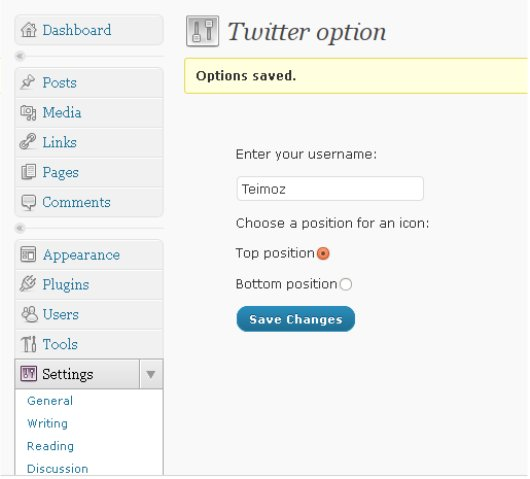
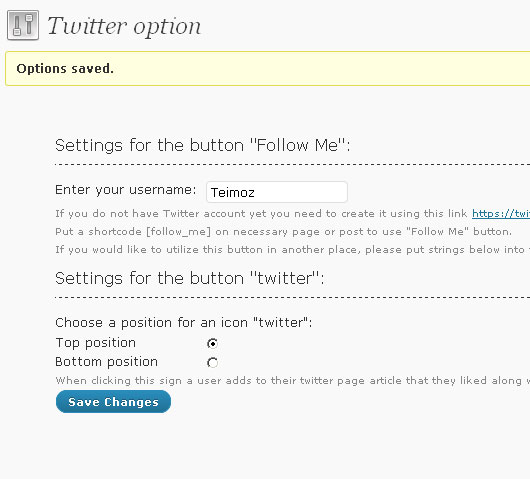
git-svn-id: https://plugins.svn.wordpress.org/twitter-plugin/trunk@388645 b8457f37-d9ea-0310-8a92-e5e31aec5664

diff --git a/twitter.php b/twitter.php
@@ -4,7 +4,7 @@ Plugin Name: Twitter Plugin
 Plugin URI:  http://bestwebsoft.com/plugin/
 Description: Plugin to add a link to the page author to twitter.
 Author: BestWebSoft
-Version: 1.02
+Version: 1.03
 Author URI: http://bestwebsoft.com/
 License: GPLv2 or later
 */
@@ -32,6 +32,7 @@ add_filter( "the_content", "twitter_twit" );
 
 add_action ( 'admin_menu', 'twitter_mt_add_pages' );
 
+add_shortcode( 'follow_me', 'follow_me' );
 
 if( !function_exists( twitter_settings ) ) {
 	function twitter_settings( $links, $file ) {
@@ -45,8 +46,6 @@ if( !function_exists( twitter_settings ) ) {
 //add settings links.End.
 
 //add meny
-
-
 if(!function_exists ( 'twitter_mt_add_pages' ) ) {
 	function twitter_mt_add_pages() {
 		add_options_page ( 'Twitter', 'Twitter', 8, 'twitter', 'twitter_form' );
@@ -55,7 +54,6 @@ if(!function_exists ( 'twitter_mt_add_pages' ) ) {
 //add meny.End
 		
 //add.Form meny.
-
 if (!function_exists ( 'twitter_form' ) ) {
 	function twitter_form () { ?>
 		<div class="wrap">
@@ -75,14 +73,18 @@ if (!function_exists ( 'twitter_form' ) ) {
 		<?php }?>
 			<div style='margin:50px 0 0 50px;'>
 				<form method='post' action=" admin.php?page=twitter ">
+					<div style="font-size:16px;border-bottom:1px dashed;padding-bottom:10px;margin-bottom:15px;">Settings for the button "Follow Me":</div>
 					<div style="width:150px;float:left;">Enter your username:</div>
 					<input name='url_twitter' type='text' value='<?php echo get_option("url_twitter") ?>'/>
 					<div style="color: rgb(136, 136, 136); font-size: 10px;clear:both;">If you do not have Twitter account yet you need to create it using this link <a target="_blank" href="https://twitter.com/signup">https://twitter.com/signup</a> .</div>
-					<div style="clear:both;margin:15px 0 2px 0;">Choose a position for an icon:</div>
+					<div style="color: rgb(136, 136, 136); font-size: 10px;clear:both;">Put a shortcode [follow_me] on necessary page or post to use "Follow Me" button.</div>
+					<div style="color: rgb(136, 136, 136); font-size: 10px;clear:both;">If you would like to utilize this button in another place, please put strings below into the template source code 	&#60;?php if ( function_exists( 'follow_me' ) ) echo follow_me(); ?&#62;</div>
+					<div style="font-size:16px;border-bottom:1px dashed;padding:10px 0 10px 0;">Settings for the button "twitter":</div>
+					<div style="clear:both;margin:15px 0 2px 0;">Choose a position for an icon "twitter":</div>
 					<div style="width:150px;float:left;">Top position</div><input style="margin-top:5px;" type="radio" name="position" value="1" <?php if ( get_option( "position", $position ) == 1 ) echo 'checked="checked"'?> />
 					<div style="clear:both;"></div>
 					<div style="width:150px;float:left;">Bottom position</div><input style="margin-top:5px;" type="radio" name="position" value="0" <?php if ( get_option( "position", $position ) == 0 ) echo 'checked="checked"'?> />
-					<div style="clear:both;height:5px;"></div>
+					<div style="color: rgb(136, 136, 136); font-size: 10px;clear:both;">When clicking this sign a user adds to their twitter page article that they liked along with a link to it.</div>
 					<input class="button-primary" type="submit" value="Save Changes" />
 				</form>
 			</div>
@@ -92,22 +94,36 @@ if (!function_exists ( 'twitter_form' ) ) {
 }
 //add.Form meny.End.	
 	
-//Positioning the plug in the page	
+// score code[follow_me]
+if (!function_exists('follow_me')){
+	function follow_me() {
+		return '<a href="http://twitter.com/'.get_option("url_twitter").'" target="_blank" title="Follow me">
+				 <img src="'.get_option('home').'/wp-content/plugins/twitter-plugin/images/twitter-follow.gif" alt="Follow me" />
+			  </a>'.$content;
+	}
+}
 
+	
+//Positioning in the page	
 if(!function_exists( 'twitter_twit' ) ) {
 	function twitter_twit( $content ) {
+	global $post;
+	$permalink_post = get_permalink($post_ID);
+	$title_post = $post->post_title;
+	
 		$position = get_option( 'position' );
 		$str = '<div style="clear:both;margin-bottom:5px;">
-				<a href="http://twitter.com/'.get_option("url_twitter").'" target="_blank">
-					<img src="'.get_option('home').'/wp-content/plugins/twitter-plugin/images/twitt.png" alt="Twitt" />
+				<a href="http://twitter.com/share?url='.$permalink_post.'&text='.$title_post.'" target="_blank" title="Click here if you liked this article">
+					<img src="'.get_option('home').'/wp-content/plugins/twitter-plugin/images/twitt.gif" alt="Twitt" />
 				</a>
 			</div>';
 		if ( $position ){
-			return $str.$content;
+			return $qw.$str.$content;
 		}
 		else{
 			return $content.$str;
 		}
 	}
 }
-//Positioning the plug in the page.End.?>
+//Positioning in the page.End.
+?>
